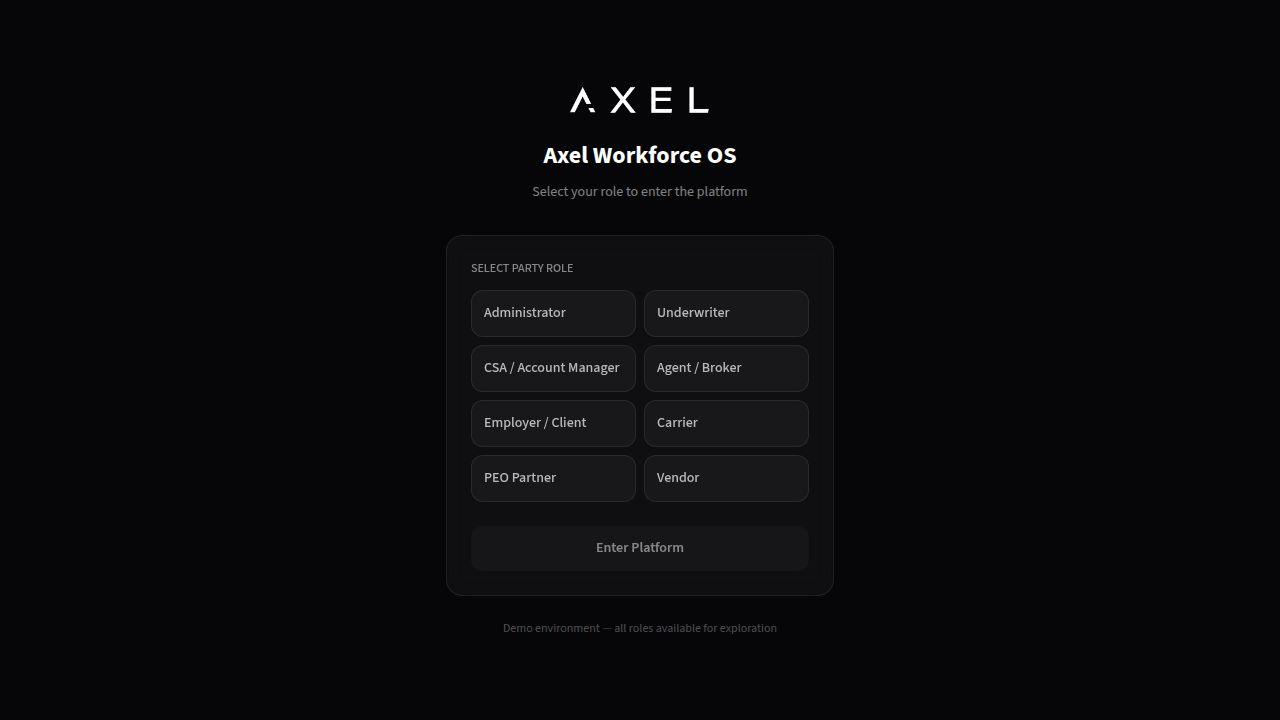
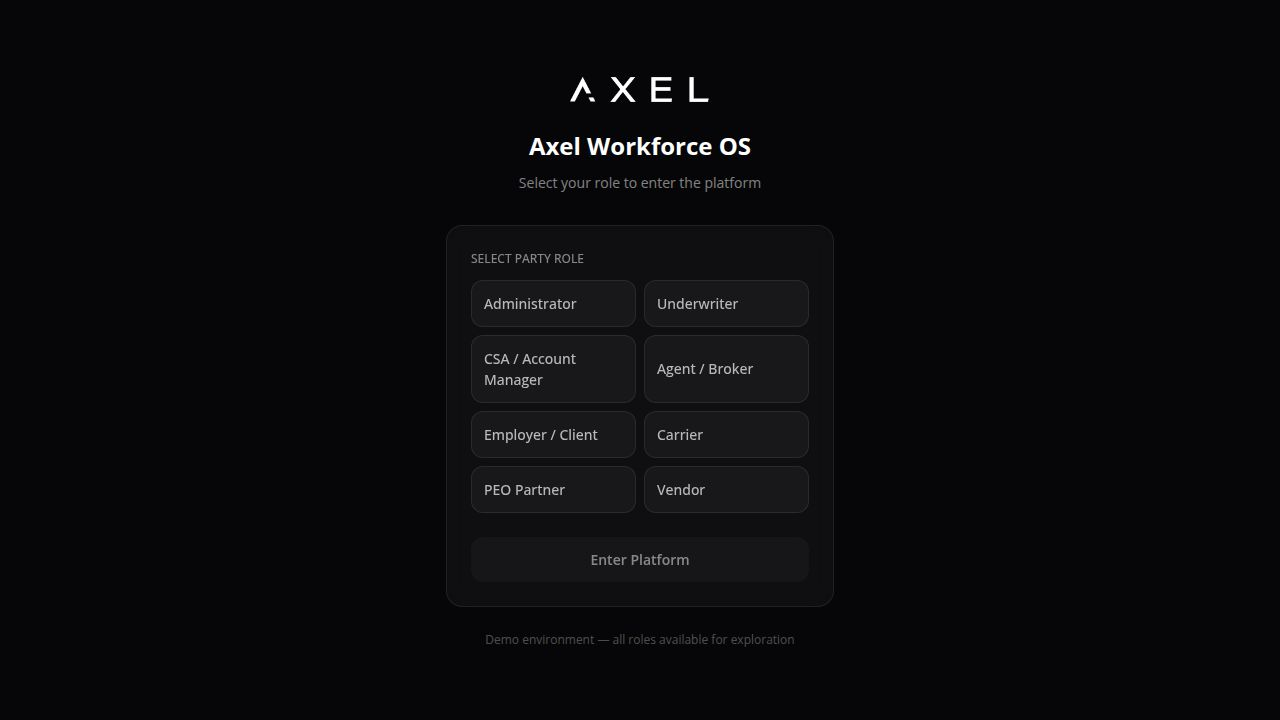
UI aesthetic overhaul — typography, layout centering & glassmorphism
- Swap fonts: Source Sans 3 → Open Sans (body), add Jost (uppercase subheadings)
- Update Google Fonts import in index.html
- Set CSS vars: --app-font-sans (Open Sans), --app-font-heading (Jost)
- Bump global base font-size to 15px
- Add .font-heading utility class (uppercase, letter-spacing 0.06em)
- FormSection titles now use Jost uppercase style
- Center main content: maxWidth 1280px wrapper in AppShell with margin auto
- Increase main padding to 32px 40px
- Glassmorphism upgrade across all modals:
  - Overlay: rgba(0,0,0,0.7) + backdrop-blur(14px)
  - Popup: rgba(18,18,24,0.82) + backdrop-blur(40px) + deep box-shadow
  - Applied to: AxelModal, DealCardModal, GlobalSearch, dialog.tsx,
    sheet.tsx, Network AddPartnerModal, Resources AddResourceModal
- Update Hazometer font reference from Source Sans 3 to CSS var
- Update replit.md with new design system documentation

diff --git a/artifacts/axel-workforce-os/src/components/GlobalSearch.tsx b/artifacts/axel-workforce-os/src/components/GlobalSearch.tsx
@@ -61,16 +61,16 @@ export default function GlobalSearch({ onClose, onOpenDeal }: { onClose: () => v
       onClick={onClose}
       style={{
         position: "fixed", inset: 0, zIndex: 9999,
-        background: "rgba(0,0,0,0.8)", backdropFilter: "blur(8px)",
+        background: "rgba(0,0,0,0.7)", backdropFilter: "blur(14px)", WebkitBackdropFilter: "blur(14px)",
         display: "flex", alignItems: "flex-start", justifyContent: "center", paddingTop: "80px",
       }}
     >
       <div onClick={(e) => e.stopPropagation()} style={{ width: "640px", maxHeight: "70vh", display: "flex", flexDirection: "column" }}>
         <div style={{
           display: "flex", alignItems: "center", gap: "12px", padding: "16px 20px",
-          background: isDark ? "rgba(20,20,24,0.95)" : "rgba(255,255,255,0.95)",
-          border: `1px solid ${isDark ? "rgba(255,255,255,0.1)" : "rgba(0,0,0,0.1)"}`,
-          borderRadius: "14px 14px 0 0", backdropFilter: "blur(12px)",
+          background: isDark ? "rgba(18,18,24,0.82)" : "rgba(255,255,255,0.78)",
+          border: `1px solid ${isDark ? "rgba(255,255,255,0.12)" : "rgba(0,0,0,0.1)"}`,
+          borderRadius: "14px 14px 0 0", backdropFilter: "blur(40px)", WebkitBackdropFilter: "blur(40px)",
         }}>
           <Search style={{ width: 20, height: 20, color: textMuted, flexShrink: 0 }} />
           <input
@@ -87,9 +87,9 @@ export default function GlobalSearch({ onClose, onOpenDeal }: { onClose: () => v
 
         <div style={{
           flex: 1, overflowY: "auto", padding: "12px 20px 20px",
-          background: isDark ? "rgba(20,20,24,0.95)" : "rgba(255,255,255,0.95)",
-          border: `1px solid ${isDark ? "rgba(255,255,255,0.1)" : "rgba(0,0,0,0.1)"}`,
-          borderTop: "none", borderRadius: "0 0 14px 14px", backdropFilter: "blur(12px)",
+          background: isDark ? "rgba(18,18,24,0.82)" : "rgba(255,255,255,0.78)",
+          border: `1px solid ${isDark ? "rgba(255,255,255,0.12)" : "rgba(0,0,0,0.1)"}`,
+          borderTop: "none", borderRadius: "0 0 14px 14px", backdropFilter: "blur(40px)", WebkitBackdropFilter: "blur(40px)",
         }}>
           {query && totalResults === 0 && !loading && (
             <p style={{ fontSize: "14px", color: textMuted, textAlign: "center", padding: "24px 0" }}>

diff --git a/artifacts/axel-workforce-os/src/components/ui/dialog.tsx b/artifacts/axel-workforce-os/src/components/ui/dialog.tsx
@@ -19,7 +19,7 @@ const DialogOverlay = React.forwardRef<
   <DialogPrimitive.Overlay
     ref={ref}
     className={cn(
-      "fixed inset-0 z-50 bg-black/80  data-[state=open]:animate-in data-[state=closed]:animate-out data-[state=closed]:fade-out-0 data-[state=open]:fade-in-0",
+      "fixed inset-0 z-50 bg-black/70 backdrop-blur-[14px] data-[state=open]:animate-in data-[state=closed]:animate-out data-[state=closed]:fade-out-0 data-[state=open]:fade-in-0",
       className
     )}
     {...props}
@@ -36,7 +36,7 @@ const DialogContent = React.forwardRef<
     <DialogPrimitive.Content
       ref={ref}
       className={cn(
-        "fixed left-[50%] top-[50%] z-50 grid w-full max-w-lg translate-x-[-50%] translate-y-[-50%] gap-4 border bg-background p-6 shadow-lg duration-200 data-[state=open]:animate-in data-[state=closed]:animate-out data-[state=closed]:fade-out-0 data-[state=open]:fade-in-0 data-[state=closed]:zoom-out-95 data-[state=open]:zoom-in-95 data-[state=closed]:slide-out-to-left-1/2 data-[state=closed]:slide-out-to-top-[48%] data-[state=open]:slide-in-from-left-1/2 data-[state=open]:slide-in-from-top-[48%] sm:rounded-lg",
+        "fixed left-[50%] top-[50%] z-50 grid w-full max-w-lg translate-x-[-50%] translate-y-[-50%] gap-4 border border-white/12 bg-background/82 backdrop-blur-[40px] p-6 shadow-[0_24px_80px_rgba(0,0,0,0.5)] duration-200 data-[state=open]:animate-in data-[state=closed]:animate-out data-[state=closed]:fade-out-0 data-[state=open]:fade-in-0 data-[state=closed]:zoom-out-95 data-[state=open]:zoom-in-95 data-[state=closed]:slide-out-to-left-1/2 data-[state=closed]:slide-out-to-top-[48%] data-[state=open]:slide-in-from-left-1/2 data-[state=open]:slide-in-from-top-[48%] sm:rounded-2xl",
         className
       )}
       {...props}

diff --git a/artifacts/axel-workforce-os/src/pages/Network.tsx b/artifacts/axel-workforce-os/src/pages/Network.tsx
@@ -210,8 +210,8 @@ function AddPartnerModal({ partnerType, onClose, onSubmit }: { partnerType: stri
   const toggleState = (st: string) => setSelectedStates((prev) => prev.includes(st) ? prev.filter((s) => s !== st) : [...prev, st]);
 
   return (
-    <div style={{ position: "fixed", inset: 0, zIndex: 9999, display: "flex", alignItems: "center", justifyContent: "center", background: "rgba(0,0,0,0.7)" }} onClick={onClose}>
-      <div onClick={(e) => e.stopPropagation()} style={{ width: "520px", maxHeight: "85vh", overflowY: "auto", background: "#111118", border: "1px solid rgba(255,255,255,0.08)", borderRadius: "16px", padding: "32px" }}>
+    <div style={{ position: "fixed", inset: 0, zIndex: 9999, display: "flex", alignItems: "center", justifyContent: "center", background: "rgba(0,0,0,0.7)", backdropFilter: "blur(14px)", WebkitBackdropFilter: "blur(14px)" }} onClick={onClose}>
+      <div onClick={(e) => e.stopPropagation()} style={{ width: "520px", maxHeight: "85vh", overflowY: "auto", background: "rgba(18,18,24,0.82)", backdropFilter: "blur(40px)", WebkitBackdropFilter: "blur(40px)", border: "1px solid rgba(255,255,255,0.12)", borderRadius: "16px", padding: "32px", boxShadow: "0 24px 80px rgba(0,0,0,0.6), inset 0 1px 0 rgba(255,255,255,0.06)" }}>
         <div style={{ display: "flex", alignItems: "center", justifyContent: "space-between", marginBottom: "24px" }}>
           <h2 style={{ fontSize: "20px", fontWeight: 600, color: "#fff", margin: 0 }}>Add {partnerType}</h2>
           <button onClick={onClose} style={{ background: "none", border: "none", color: "rgba(255,255,255,0.5)", cursor: "pointer" }}><X style={{ width: 20, height: 20 }} /></button>

diff --git a/artifacts/axel-workforce-os/src/pages/Resources.tsx b/artifacts/axel-workforce-os/src/pages/Resources.tsx
@@ -151,8 +151,8 @@ function AddResourceModal({ onClose, onSubmit }: { onClose: () => void; onSubmit
   const [form, setForm] = useState({ title: "", category: "Guides", description: "", fileUrl: "", resourceType: "doc" });
 
   return (
-    <div style={{ position: "fixed", inset: 0, zIndex: 9999, display: "flex", alignItems: "center", justifyContent: "center", background: "rgba(0,0,0,0.7)" }} onClick={onClose}>
-      <div onClick={(e) => e.stopPropagation()} style={{ width: "480px", background: "#111118", border: "1px solid rgba(255,255,255,0.08)", borderRadius: "16px", padding: "32px" }}>
+    <div style={{ position: "fixed", inset: 0, zIndex: 9999, display: "flex", alignItems: "center", justifyContent: "center", background: "rgba(0,0,0,0.7)", backdropFilter: "blur(14px)", WebkitBackdropFilter: "blur(14px)" }} onClick={onClose}>
+      <div onClick={(e) => e.stopPropagation()} style={{ width: "480px", background: "rgba(18,18,24,0.82)", backdropFilter: "blur(40px)", WebkitBackdropFilter: "blur(40px)", border: "1px solid rgba(255,255,255,0.12)", borderRadius: "16px", padding: "32px", boxShadow: "0 24px 80px rgba(0,0,0,0.6), inset 0 1px 0 rgba(255,255,255,0.06)" }}>
         <div style={{ display: "flex", alignItems: "center", justifyContent: "space-between", marginBottom: "24px" }}>
           <h2 style={{ fontSize: "20px", fontWeight: 600, color: "#fff", margin: 0 }}>Add Resource</h2>
           <button onClick={onClose} style={{ background: "none", border: "none", color: "rgba(255,255,255,0.5)", cursor: "pointer" }}><X style={{ width: 20, height: 20 }} /></button>

diff --git a/artifacts/axel-workforce-os/src/components/ui/AxelModal.tsx b/artifacts/axel-workforce-os/src/components/ui/AxelModal.tsx
@@ -24,8 +24,9 @@ export default function AxelModal({ isOpen, onClose, children, title }: AxelModa
         display: "flex",
         alignItems: "center",
         justifyContent: "center",
-        background: "rgba(0,0,0,0.6)",
-        backdropFilter: "blur(4px)",
+        background: "rgba(0,0,0,0.7)",
+        backdropFilter: "blur(12px)",
+        WebkitBackdropFilter: "blur(12px)",
       }}
       onClick={(e) => {
         if (e.target === e.currentTarget) onClose();
@@ -33,9 +34,13 @@ export default function AxelModal({ isOpen, onClose, children, title }: AxelModa
     >
       <div
         style={{
-          background: isDark ? "rgba(20,20,24,0.95)" : "rgba(255,255,255,0.95)",
-          backdropFilter: "blur(12px)",
-          border: `1px solid ${isDark ? "rgba(255,255,255,0.08)" : "rgba(0,0,0,0.08)"}`,
+          background: isDark ? "rgba(18,18,24,0.82)" : "rgba(255,255,255,0.78)",
+          backdropFilter: "blur(40px)",
+          WebkitBackdropFilter: "blur(40px)",
+          border: `1px solid ${isDark ? "rgba(255,255,255,0.12)" : "rgba(0,0,0,0.1)"}`,
+          boxShadow: isDark
+            ? "0 24px 80px rgba(0,0,0,0.6), inset 0 1px 0 rgba(255,255,255,0.06)"
+            : "0 24px 80px rgba(0,0,0,0.15), inset 0 1px 0 rgba(255,255,255,0.8)",
           borderRadius: "16px",
           padding: "24px",
           minWidth: "400px",

diff --git a/artifacts/axel-workforce-os/src/components/DealCardModal.tsx b/artifacts/axel-workforce-os/src/components/DealCardModal.tsx
@@ -452,7 +452,8 @@ export default function DealCardModal({ dealId, isOpen, onClose, onDealUpdated }
         alignItems: "stretch",
         justifyContent: "center",
         background: "rgba(0,0,0,0.7)",
-        backdropFilter: "blur(6px)",
+        backdropFilter: "blur(14px)",
+        WebkitBackdropFilter: "blur(14px)",
         padding: "24px",
       }}
       onClick={(e) => { if (e.target === e.currentTarget) onClose(); }}
@@ -461,8 +462,12 @@ export default function DealCardModal({ dealId, isOpen, onClose, onDealUpdated }
         style={{
           width: "100%",
           maxWidth: "1200px",
-          background: isDark ? "rgba(14,14,18,0.98)" : "rgba(250,250,252,0.98)",
-          backdropFilter: "blur(12px)",
+          background: isDark ? "rgba(14,14,18,0.82)" : "rgba(250,250,252,0.78)",
+          backdropFilter: "blur(40px)",
+          WebkitBackdropFilter: "blur(40px)",
+          boxShadow: isDark
+            ? "0 24px 80px rgba(0,0,0,0.6), inset 0 1px 0 rgba(255,255,255,0.06)"
+            : "0 24px 80px rgba(0,0,0,0.15), inset 0 1px 0 rgba(255,255,255,0.8)",
           border: `1px solid ${borderSubtle}`,
           borderRadius: "16px",
           display: "flex",

diff --git a/artifacts/axel-workforce-os/src/components/ui/sheet.tsx b/artifacts/axel-workforce-os/src/components/ui/sheet.tsx
@@ -21,7 +21,7 @@ const SheetOverlay = React.forwardRef<
 >(({ className, ...props }, ref) => (
   <SheetPrimitive.Overlay
     className={cn(
-      "fixed inset-0 z-50 bg-black/80  data-[state=open]:animate-in data-[state=closed]:animate-out data-[state=closed]:fade-out-0 data-[state=open]:fade-in-0",
+      "fixed inset-0 z-50 bg-black/70 backdrop-blur-[14px] data-[state=open]:animate-in data-[state=closed]:animate-out data-[state=closed]:fade-out-0 data-[state=open]:fade-in-0",
       className
     )}
     {...props}
@@ -31,7 +31,7 @@ const SheetOverlay = React.forwardRef<
 SheetOverlay.displayName = SheetPrimitive.Overlay.displayName
 
 const sheetVariants = cva(
-  "fixed z-50 gap-4 bg-background p-6 shadow-lg transition ease-in-out data-[state=closed]:duration-300 data-[state=open]:duration-500 data-[state=open]:animate-in data-[state=closed]:animate-out",
+  "fixed z-50 gap-4 bg-background/82 backdrop-blur-[40px] p-6 shadow-[0_24px_80px_rgba(0,0,0,0.5)] transition ease-in-out data-[state=closed]:duration-300 data-[state=open]:duration-500 data-[state=open]:animate-in data-[state=closed]:animate-out",
   {
     variants: {
       side: {

diff --git a/artifacts/axel-workforce-os/src/components/quote-flow/FormFields.tsx b/artifacts/axel-workforce-os/src/components/quote-flow/FormFields.tsx
@@ -20,7 +20,7 @@ export function FormSection({ title, subtitle, children }: {
 }) {
   return (
     <div style={{ marginBottom: 32 }}>
-      <h3 style={{ fontSize: 18, fontWeight: 700, color: "#fff", margin: 0, marginBottom: subtitle ? 4 : 16 }}>
+      <h3 style={{ fontSize: 13, fontWeight: 600, color: "#fff", margin: 0, marginBottom: subtitle ? 4 : 16, fontFamily: "var(--app-font-heading)", textTransform: "uppercase", letterSpacing: "0.06em" }}>
         {title}
       </h3>
       {subtitle && (
@@ -46,7 +46,7 @@ export function FieldLabel({ label, required, children }: {
 }) {
   return (
     <div>
-      <label style={{ display: "block", fontSize: 13, color: "#888", marginBottom: 6 }}>
+      <label style={{ display: "block", fontSize: 13, color: "#888", marginBottom: 6, fontFamily: "var(--app-font-sans)" }}>
         {label} {required && <span style={{ color: "#E91E8C" }}>*</span>}
       </label>
       {children}

diff --git a/artifacts/axel-workforce-os/src/components/AppShell.tsx b/artifacts/axel-workforce-os/src/components/AppShell.tsx
@@ -517,8 +517,10 @@ export default function AppShell() {
           </div>
         </header>
 
-        <main style={{ flex: 1, overflow: "auto", padding: "24px" }}>
-          <Outlet />
+        <main style={{ flex: 1, overflow: "auto", padding: "32px 40px" }}>
+          <div style={{ maxWidth: 1280, margin: "0 auto", width: "100%" }}>
+            <Outlet />
+          </div>
         </main>
       </div>
       {searchOpen && <GlobalSearch onClose={() => setSearchOpen(false)} />}

diff --git a/artifacts/axel-workforce-os/src/components/quote-flow/Hazometer.tsx b/artifacts/axel-workforce-os/src/components/quote-flow/Hazometer.tsx
@@ -13,7 +13,7 @@ const NEON_YELLOW = "#fff01f";
 const NEON_ORANGE = "#ff6e27";
 const NEON_RED = "#ff073a";
 const NEON_CRIMSON = "#cc0022";
-const FONT = "'Source Sans 3', var(--app-font-sans), system-ui, sans-serif";
+const FONT = "var(--app-font-sans), system-ui, sans-serif";
 
 export default function Hazometer({ value, min = 0.50, max = 2.50, size = 260 }: HazometerProps) {
   const { isDark, textPrimary, textSecondary } = useThemeColors();

diff --git a/artifacts/axel-workforce-os/src/index.css b/artifacts/axel-workforce-os/src/index.css
@@ -337,3 +337,18 @@
     inset: -1px;
   }
 }
+
+html {
+  font-size: 15px;
+}
+
+body {
+  font-family: var(--app-font-sans);
+}
+
+.font-heading {
+  font-family: var(--app-font-heading);
+  text-transform: uppercase;
+  letter-spacing: 0.06em;
+  font-weight: 600;
+}

diff --git a/replit.md b/replit.md
@@ -41,8 +41,9 @@ Authentication is managed via a Zustand store, supporting eight distinct party t
 The platform enforces a strict design system:
 - **Default Theme:** Dark mode.
 - **Accent Color:** `#E91E8C` (solid pink, no gradients).
-- **Glass Panels:** `rgba(255,255,255,0.05)` background with `backdrop-filter: blur(12px)` and subtle borders.
-- **Typography:** White primary, `rgba(255,255,255,0.5)` secondary in dark mode.
+- **Glassmorphism Modals:** Overlay uses `rgba(0,0,0,0.7)` with `backdrop-filter: blur(14px)`; popup windows use `rgba(18,18,24,0.82)` background with `backdrop-filter: blur(40px)`, `box-shadow: 0 24px 80px rgba(0,0,0,0.6)`, and `inset 0 1px 0 rgba(255,255,255,0.06)` highlight.
+- **Typography:** Open Sans (body/labels via `--app-font-sans`), Jost all-caps for section subheadings (`--app-font-heading`, `.font-heading` utility class). Base font-size: 15px.
+- **Layout:** Main content centered with `maxWidth: 1280px`, `margin: 0 auto`, padding `32px 40px`.
 - **Components:** A custom component library provides reusable UI elements adhering to the design system.
 
 **Layouts:**
